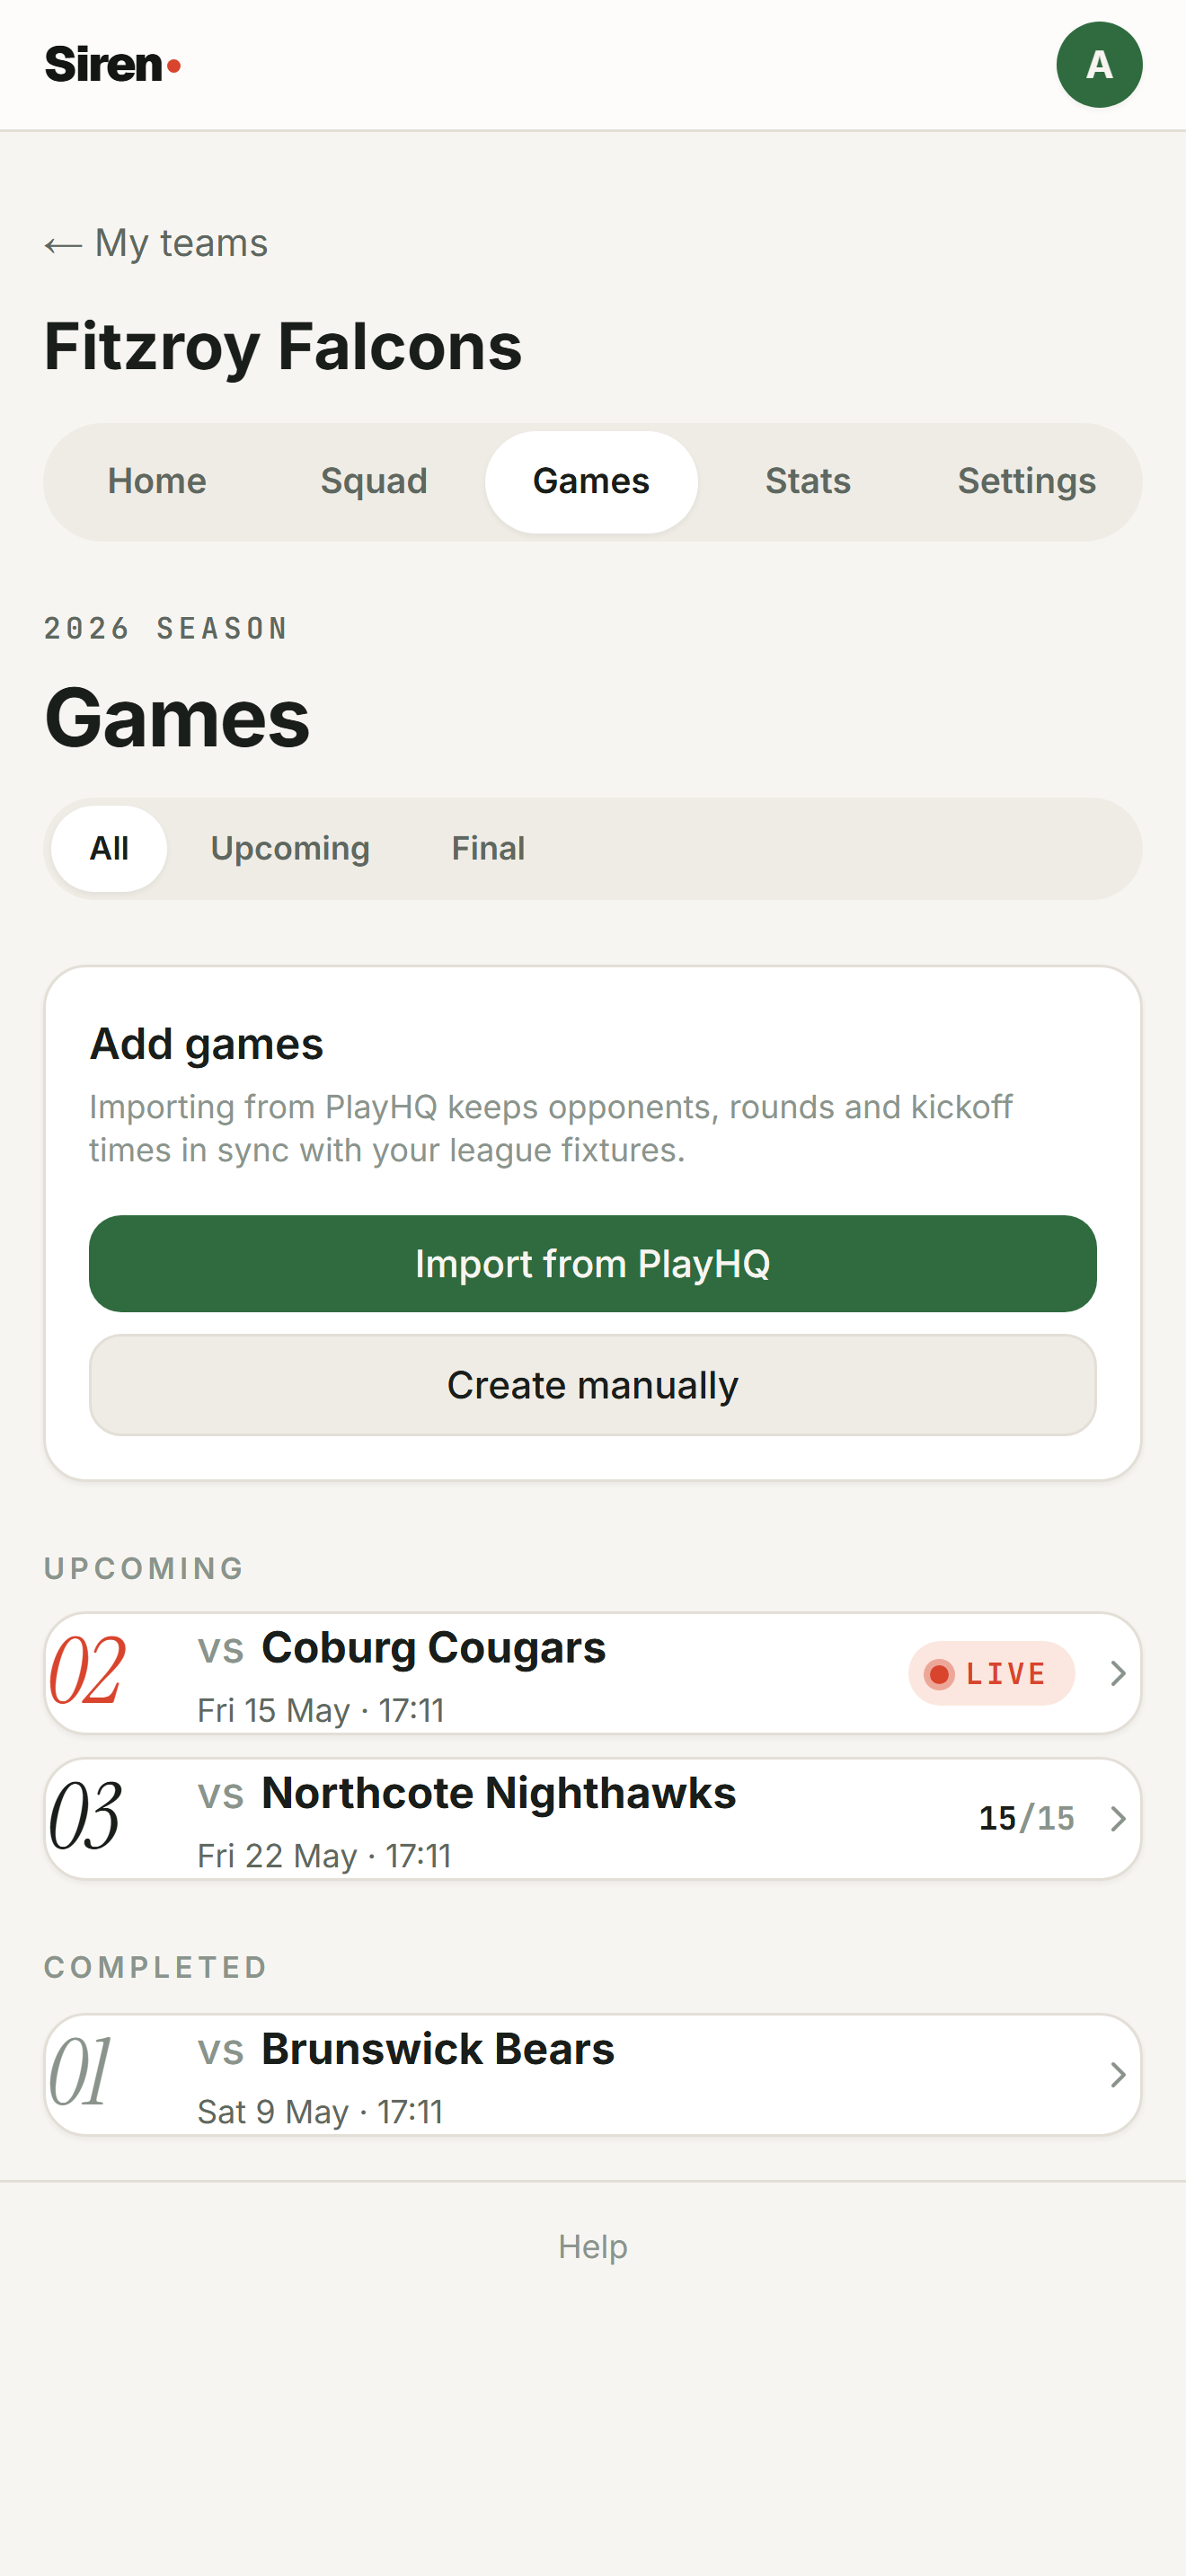
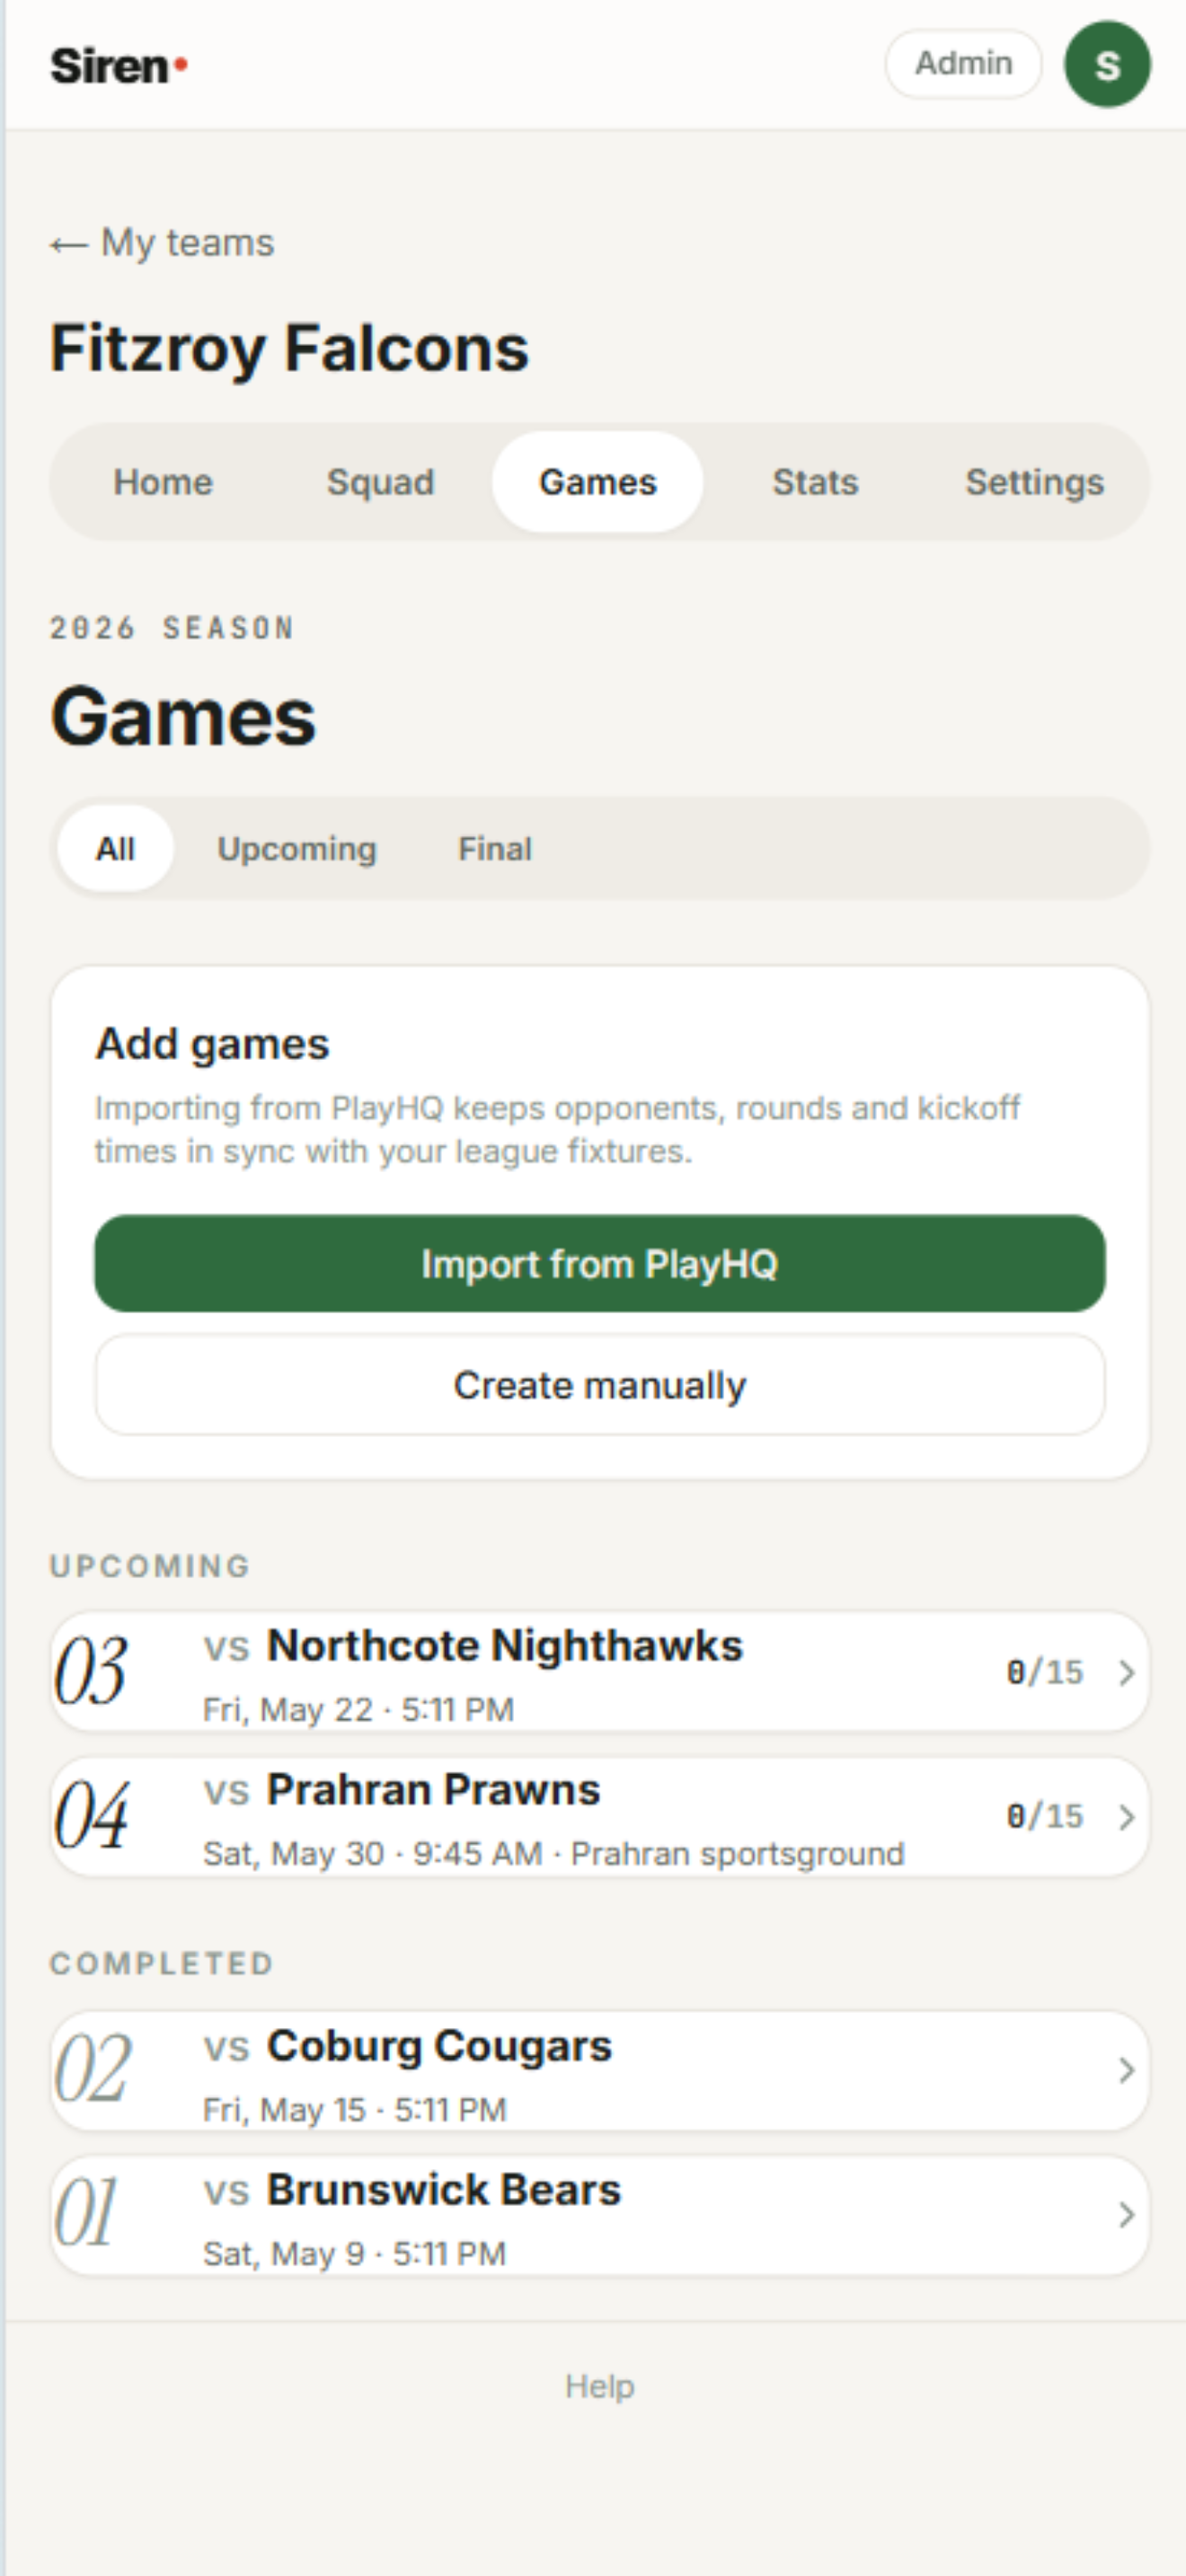
App Review shots: swap shot 01 to the polished games-list
Steve replaced the auto-captured games list with a hand-polished
version: he added a R4 vs Prahran Prawns (Sat May 30, Prahran
sportsground) and played R2 through to FT, so the list now reads
as a real mid-season state with 2 completed + 2 upcoming games
rather than the seed's 1-Final-1-Live-1-Upcoming default.

What's now visible:
  - Tab filter (All / Upcoming / Final)
  - PlayHQ import card front and centre — important detail for
    Aussie junior leagues; signals the app integrates with the
    real-world fixture system every coach already deals with.
  - UPCOMING: R3 Northcote Nighthawks, R4 Prahran Prawns (with
    venue + kickoff time)
  - COMPLETED: R2 Coburg Cougars, R1 Brunswick Bears

Pipeline:
  - capture-store-screenshots.mjs SHOTS[0]: flagged manualOnly
    + comment noting the R4 divergence from the seeded state.
  - DESIGN-HANDOFF.md section 01 rewritten with the new content
    + a recapture note for future maintainers.
  - ios/01-games-list.png deleted (stale auto-generated). Designer
    will produce the marketed version from the updated raw.

All 6 shots are now polished hand-captures from Steve. Future
`npm run screenshots:ios` runs will skip every shot in SHOTS
(every one is manualOnly now) — the script is essentially
turning into a manifest. May want to either retire the auto-
capture path or keep it as a regression check that the demo
data still renders. Decide later.

diff --git a/mobile/store/screenshots/DESIGN-HANDOFF.md b/mobile/store/screenshots/DESIGN-HANDOFF.md
@@ -115,12 +115,28 @@ emphasise in brand-green.
 - **Headline:** "Your whole season **in one tap**."
 - **Emphasis word:** *in one tap* (green)
 - **What's on screen:** Fitzroy Falcons team page → Games tab.
-  Three game cards visible: Coburg Cougars (LIVE pill), Northcote
-  Nighthawks (12/12 availability, Upcoming), Brunswick Bears
-  (Completed). Tab bar showing Home / Squad / Games / Stats /
-  Settings. PlayHQ import card peeking at top.
+  "2026 SEASON" eyebrow + "Games" heading + filter chips (All /
+  Upcoming / Final). "Add games" card explaining PlayHQ import vs
+  manual entry, with green "Import from PlayHQ" + ghost "Create
+  manually" buttons. Two sections beneath:
+    - UPCOMING: R3 vs Northcote Nighthawks (Fri May 22, 5:11 PM),
+      R4 vs Prahran Prawns (Sat May 30, 9:45 AM · Prahran
+      sportsground). Both showing 0/15 availability chips.
+    - COMPLETED: R2 vs Coburg Cougars (Fri May 15), R1 vs
+      Brunswick Bears (Sat May 9).
+  Help link at the bottom.
 - **Story:** Shows the season-management value prop. Coach
-  glances and goes "ah, I can see all my fixtures here".
+  glances and goes "ah, I can see all my fixtures here". The
+  PlayHQ import card on top is a meaningful detail — Australian
+  junior leagues all use PlayHQ, and a one-tap fixture import is
+  the table-stakes the rest of the app builds on top of.
+- **Note:** Manual capture only — the seed creates 3 games (R1
+  completed, R2 live, R3 upcoming) but this shot includes a R4
+  vs Prahran Prawns that Steve added by hand to make the list
+  read as a real mid-season state. Future re-seeds will reset
+  to the 3-game canonical roster; recapture this shot by hand
+  after adding R4 back via the UI, or update the seed to
+  include R4.
 
 ### 02 — Game recap *(full-time summary + copy-for-group-chat)*
 